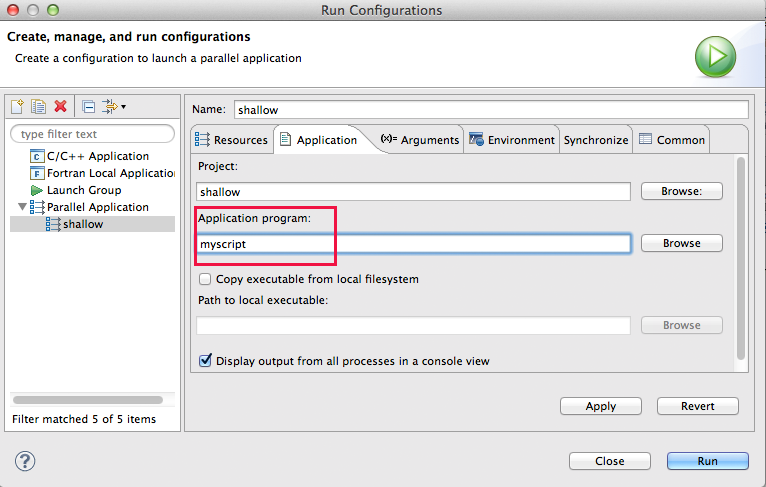
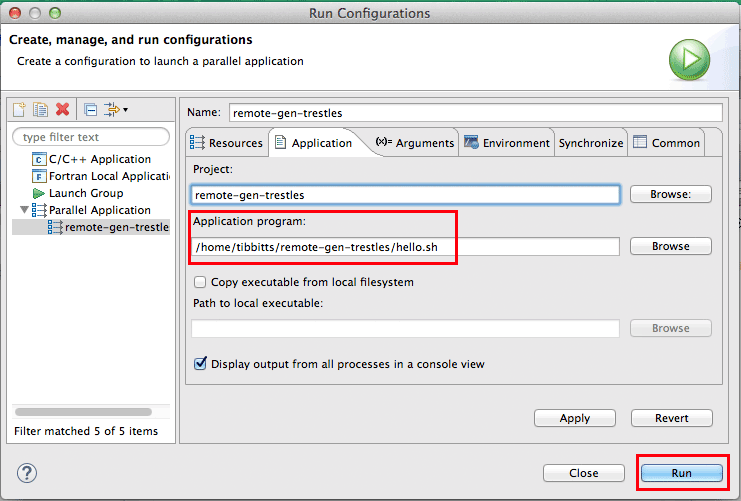
Bug 434362 updated text and screenshots for a simple "hello world" script on the remote target Committed to master.

Changed region(s): [[0.0, 0.0, 1.0, 1.0]]

diff --git a/core/org.eclipse.ptp.doc.user/html/rms/remote-generic-interactive.html b/core/org.eclipse.ptp.doc.user/html/rms/remote-generic-interactive.html
@@ -19,7 +19,7 @@ via Run > Run Configurations ... and create a new <b>Parallel Application</b>.
 the <b>Resources</b> tab of the run configuration.
 For <b>Target System Configuration</b>, select <b>Remote-Generic-Interactive</b>
 <p><img src="../images/rms-remote-generic-interative.png">
-<p>Then specify a <b>Remote Service Provider</b> and a connection.  If you have already specified a connection, e.g.
+<p>Then specify a connection.  If you have already specified a connection, e.g.
 for a <a href="../sync.html">Synchronized Project</a> or a remote project,
 you can select it, or you can create a new connection at this point with the <b>New...</b> button.
 
@@ -33,18 +33,28 @@ you can select it, or you can create a new connection at this point with the <b>
 </blockquote>
 <p>After selecting a Connection, it will ask to run a command on the system.
 Select <b>Yes</b> to continue.  Check the <b>Don't ask to run command again for this configuration</b>
-to avoid being asked again for this launch configuration.  The information from the command results will be used
+to avoid being asked again for this launch configuration.  The information from the command results are generally used
 to populate information on the dialog.
 
 <p>On the <b>Application</b> tab (as described in 
 <a href="../03pRunConfig.html#application">run configuration setup for running your parallel application</a>),
 for the <b>Remote-Generic-Interactive</b> target system configuration,
 the application name shouldn't be the executable name, but a run script that is provided by the user.
-by specifying the Application program
-on the <b>Application</b> tab, and any other information required.
+
+<ul>
+<li>For this example, we created a simple synchronized project that contains a "hello world" script
+<pre>
+#!/bin/bash
+# hello.sh
+echo "Hello PTP Remote Generic Interactive World"
+</pre>
+</ul>
 Use the <b>Browse...</b> button to select the script from a location on the remote target system.
 <p><img src="../images/rms-remote-generic-interative-app-script.png">
-
+<p>Select the <b>Run</b> button to execute the script.
+The results from this simple "hello world" script are shown in the <b>Console</b> view at the bottom
+of the workbench window.
+<p><img src="../images/rms-remote-generic-interative-app-script-console.png">
 <p>&nbsp
 <p><a href="#top">Back to Top</a> | <a href="../toc.html">Back to Table of Contents</a>
 </body>
